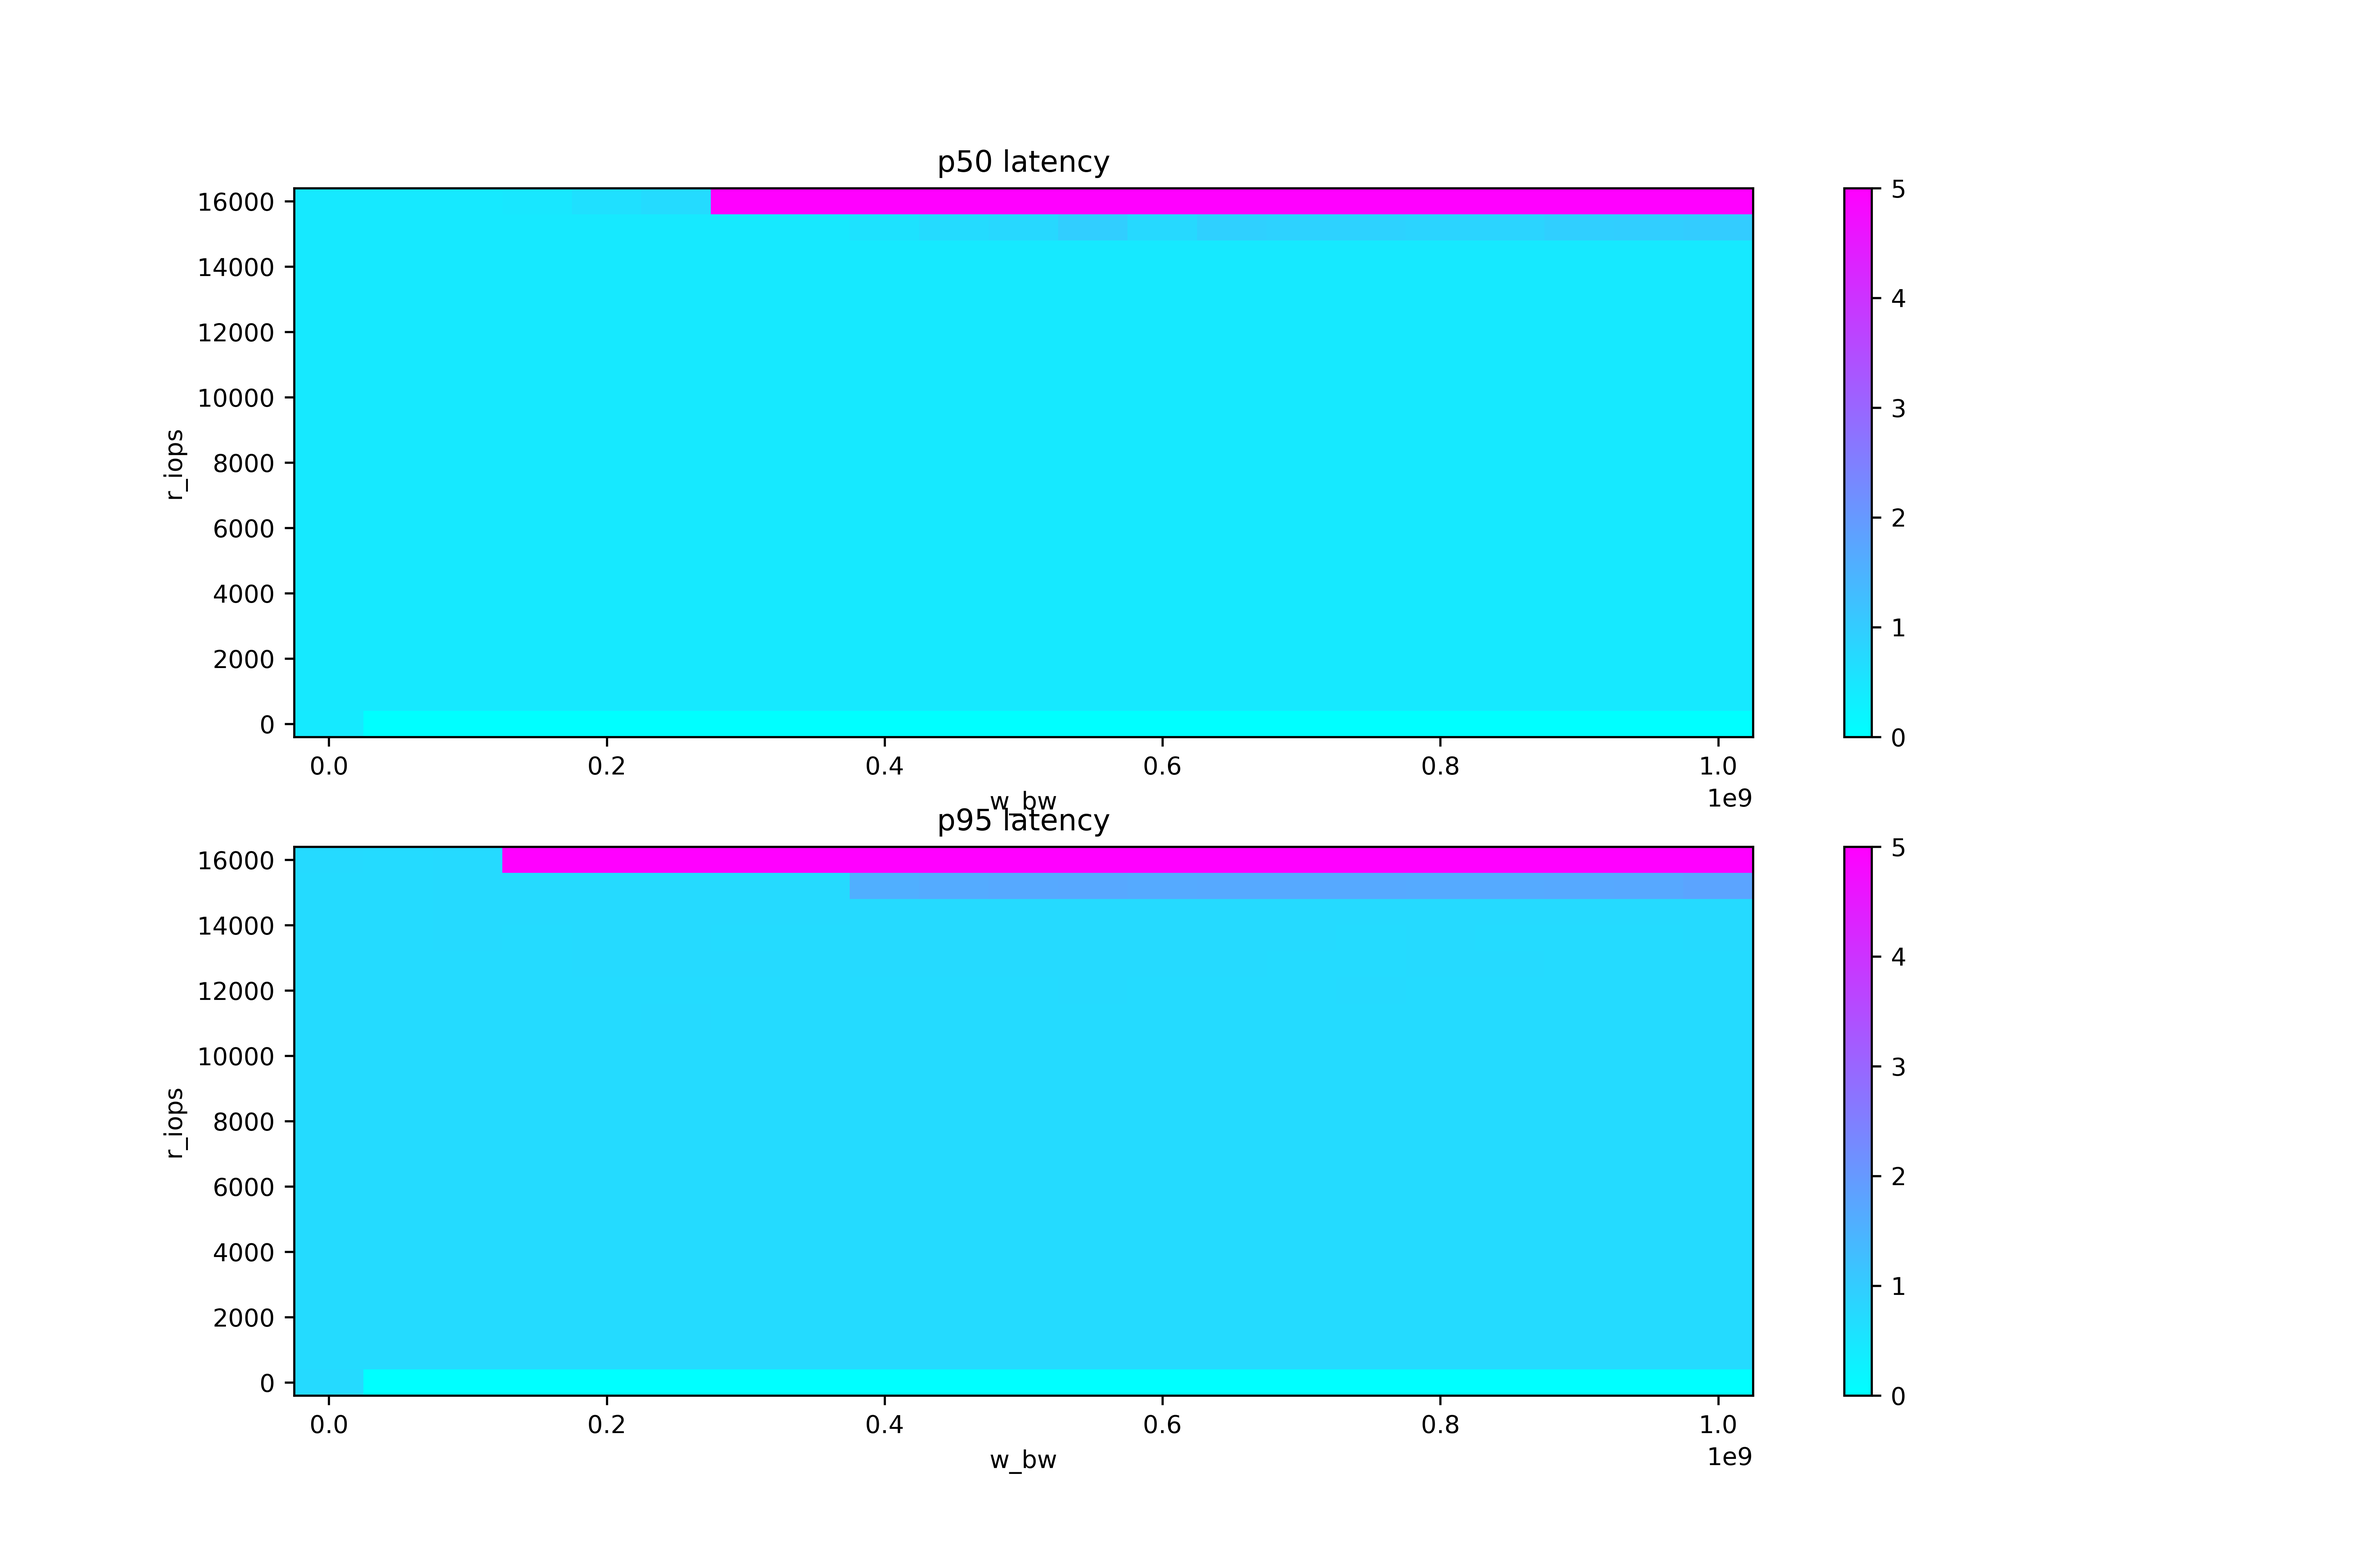
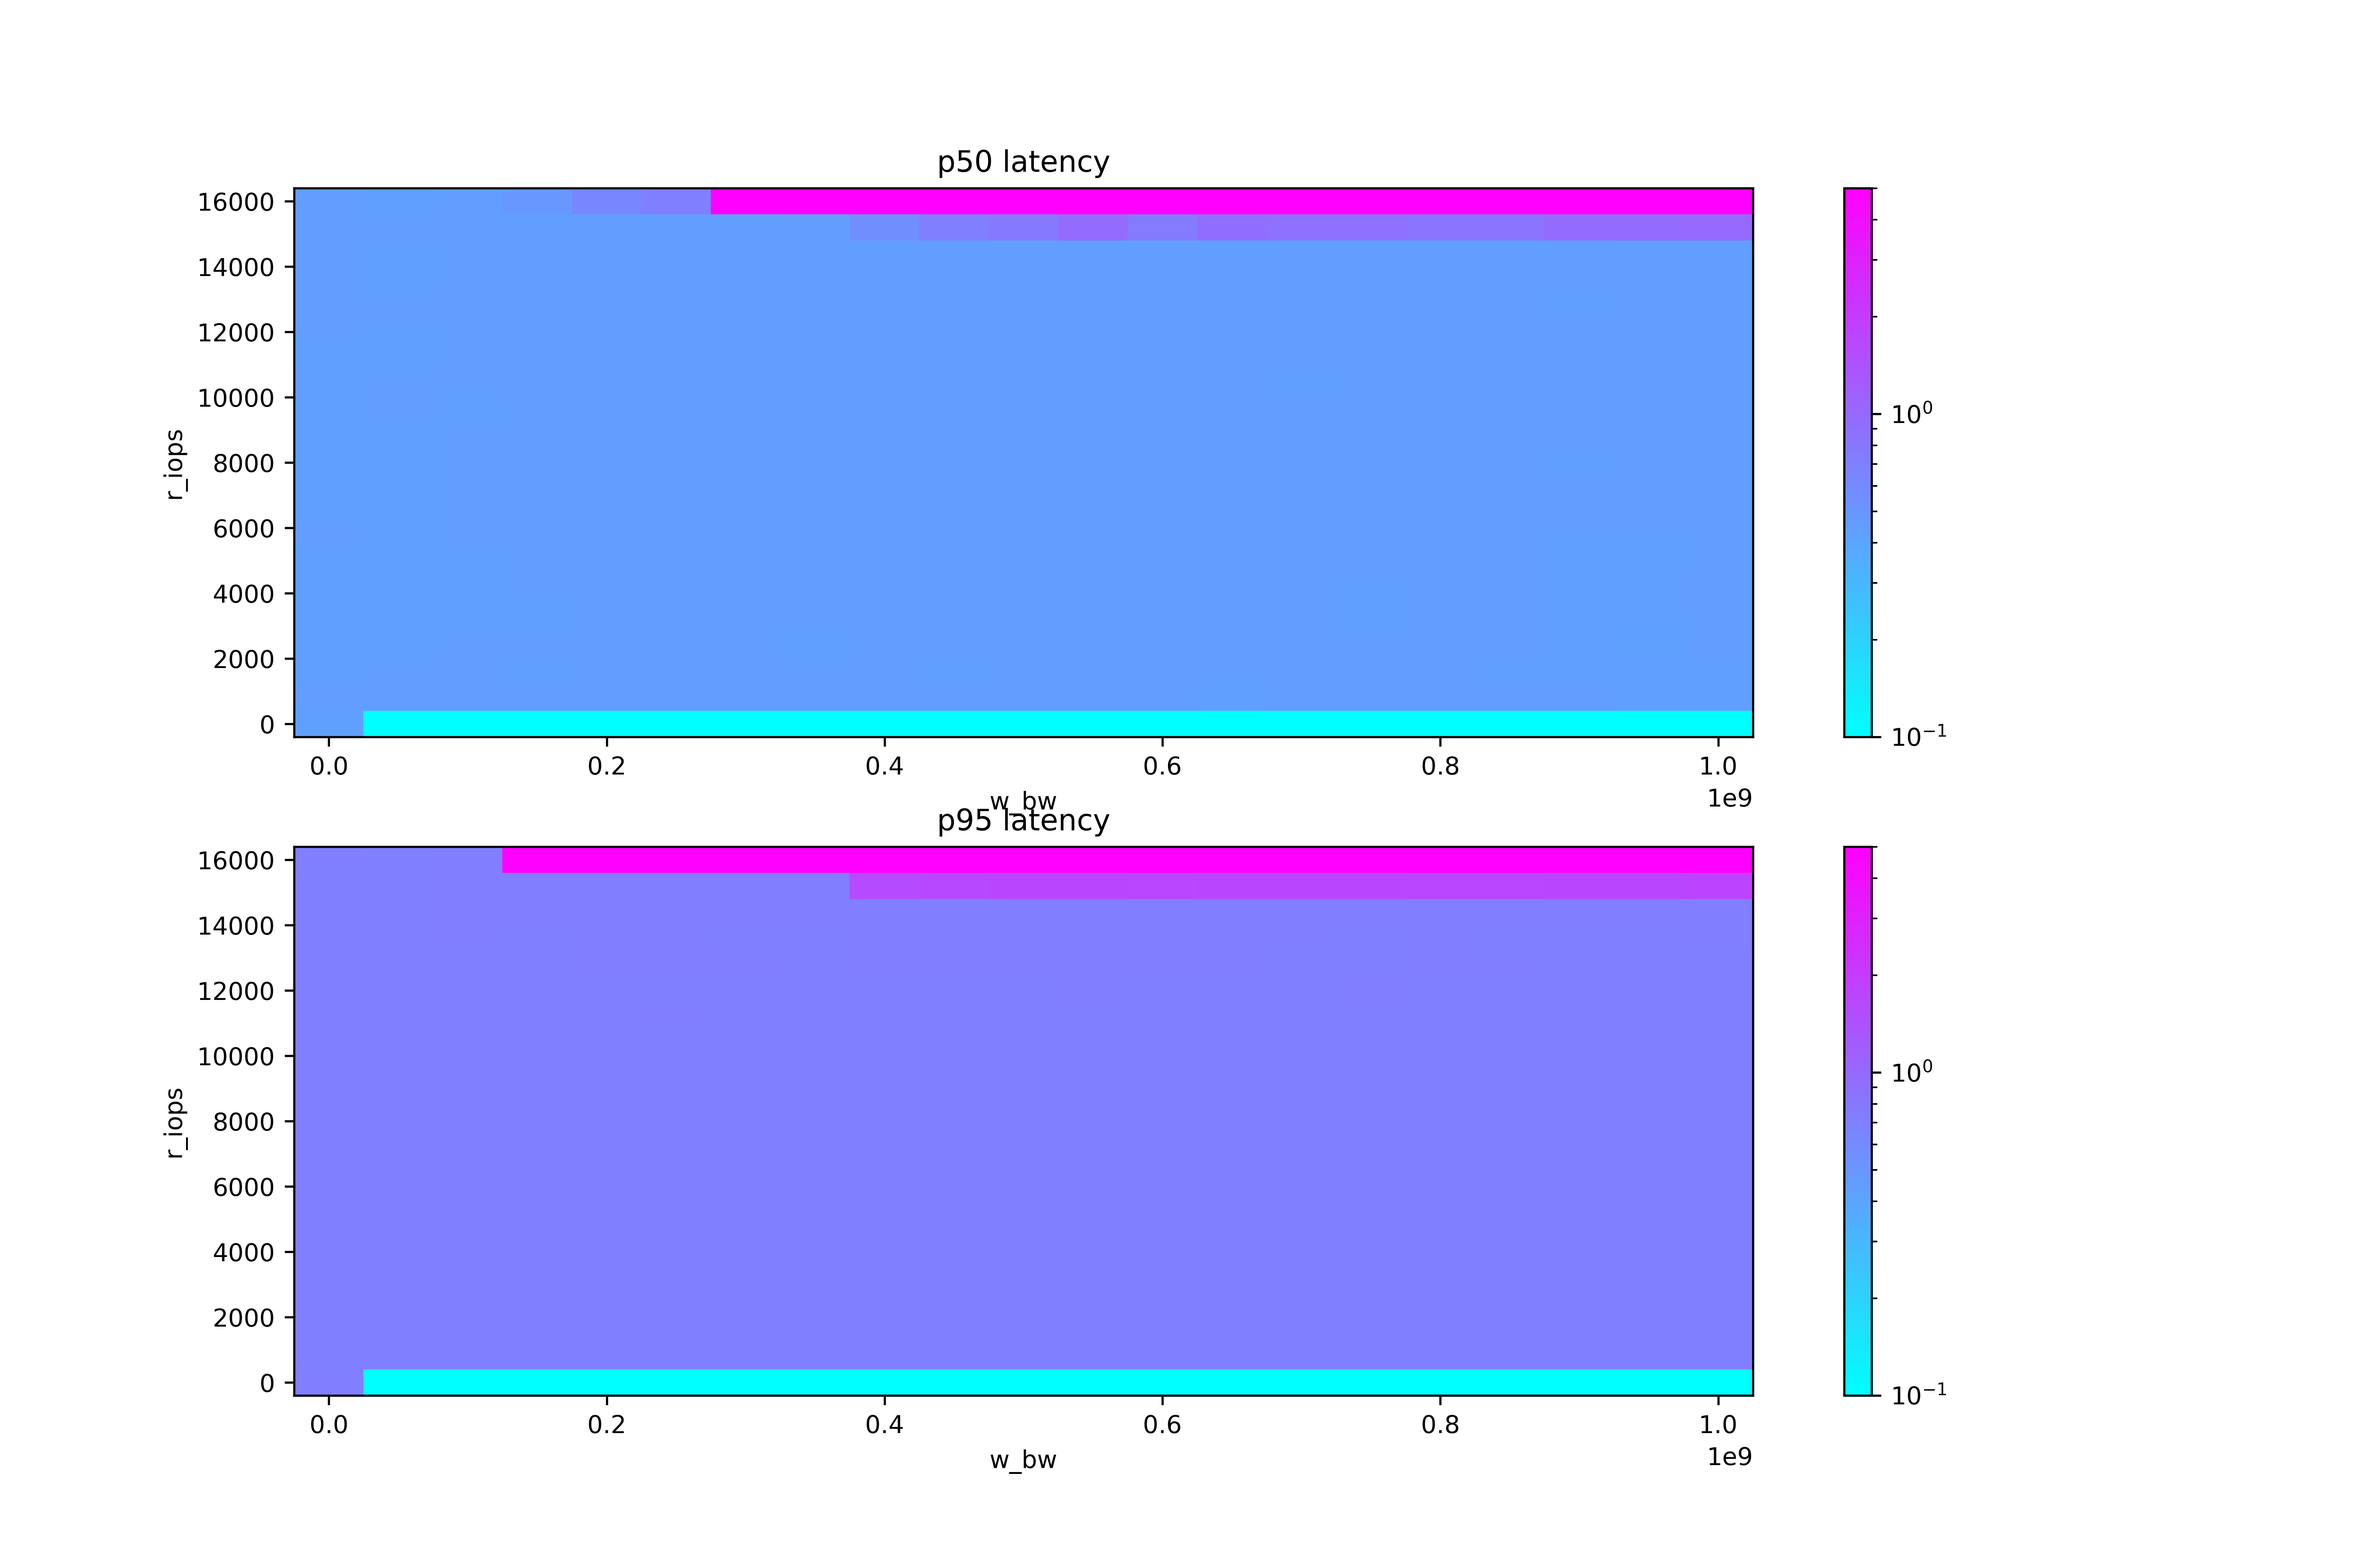
latency-postprocess: switch to log scale for the color map
The difference between 4.9ms and 5ms is less interesting than the
difference between 0.1ms and 0.2ms, so switch to log scale to give
more resolution at the lower end of the scale.

Example results are updated.

diff --git a/latency-postprocess.py b/latency-postprocess.py
@@ -69,7 +69,7 @@ for name_mat, ax in zip(mats, axs):
     ax.set_xlabel('w_bw')
     ax.set_ylabel('r_iops')
     c = ax.pcolor(w_bw, r_iops, mat, shading='auto', cmap='cool',
-                  norm=matplotlib.colors.Normalize(vmin=0, vmax=5, clip=True))
+                  norm=matplotlib.colors.LogNorm(vmin=0.1, vmax=5, clip=True))
     fig.colorbar(c, ax=ax)
 
 
